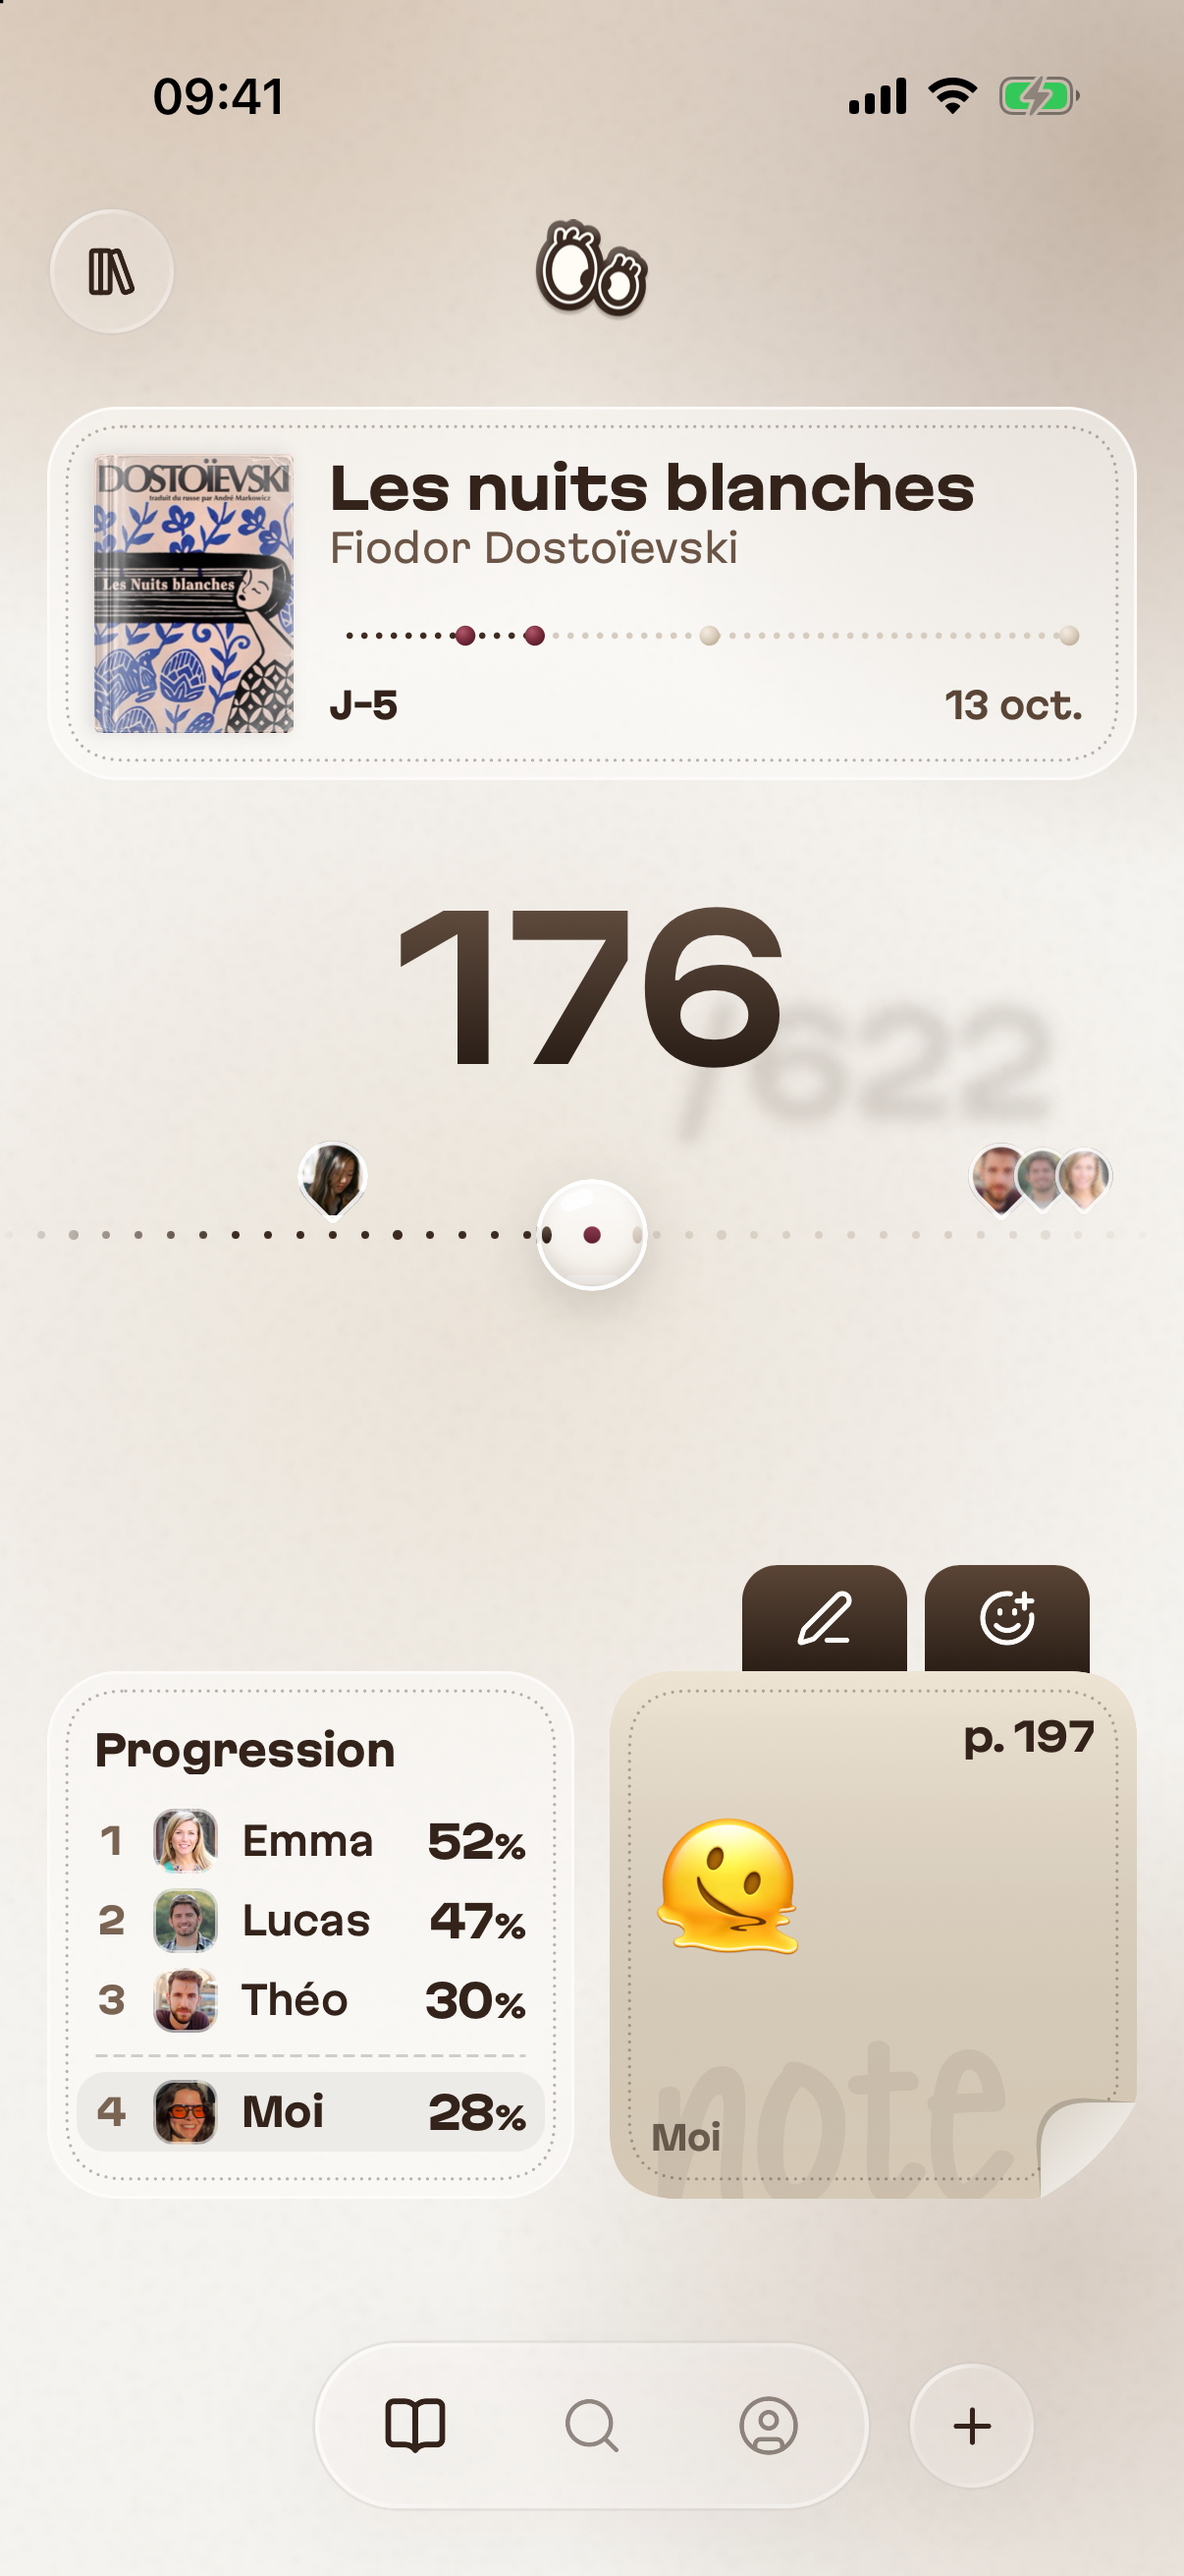
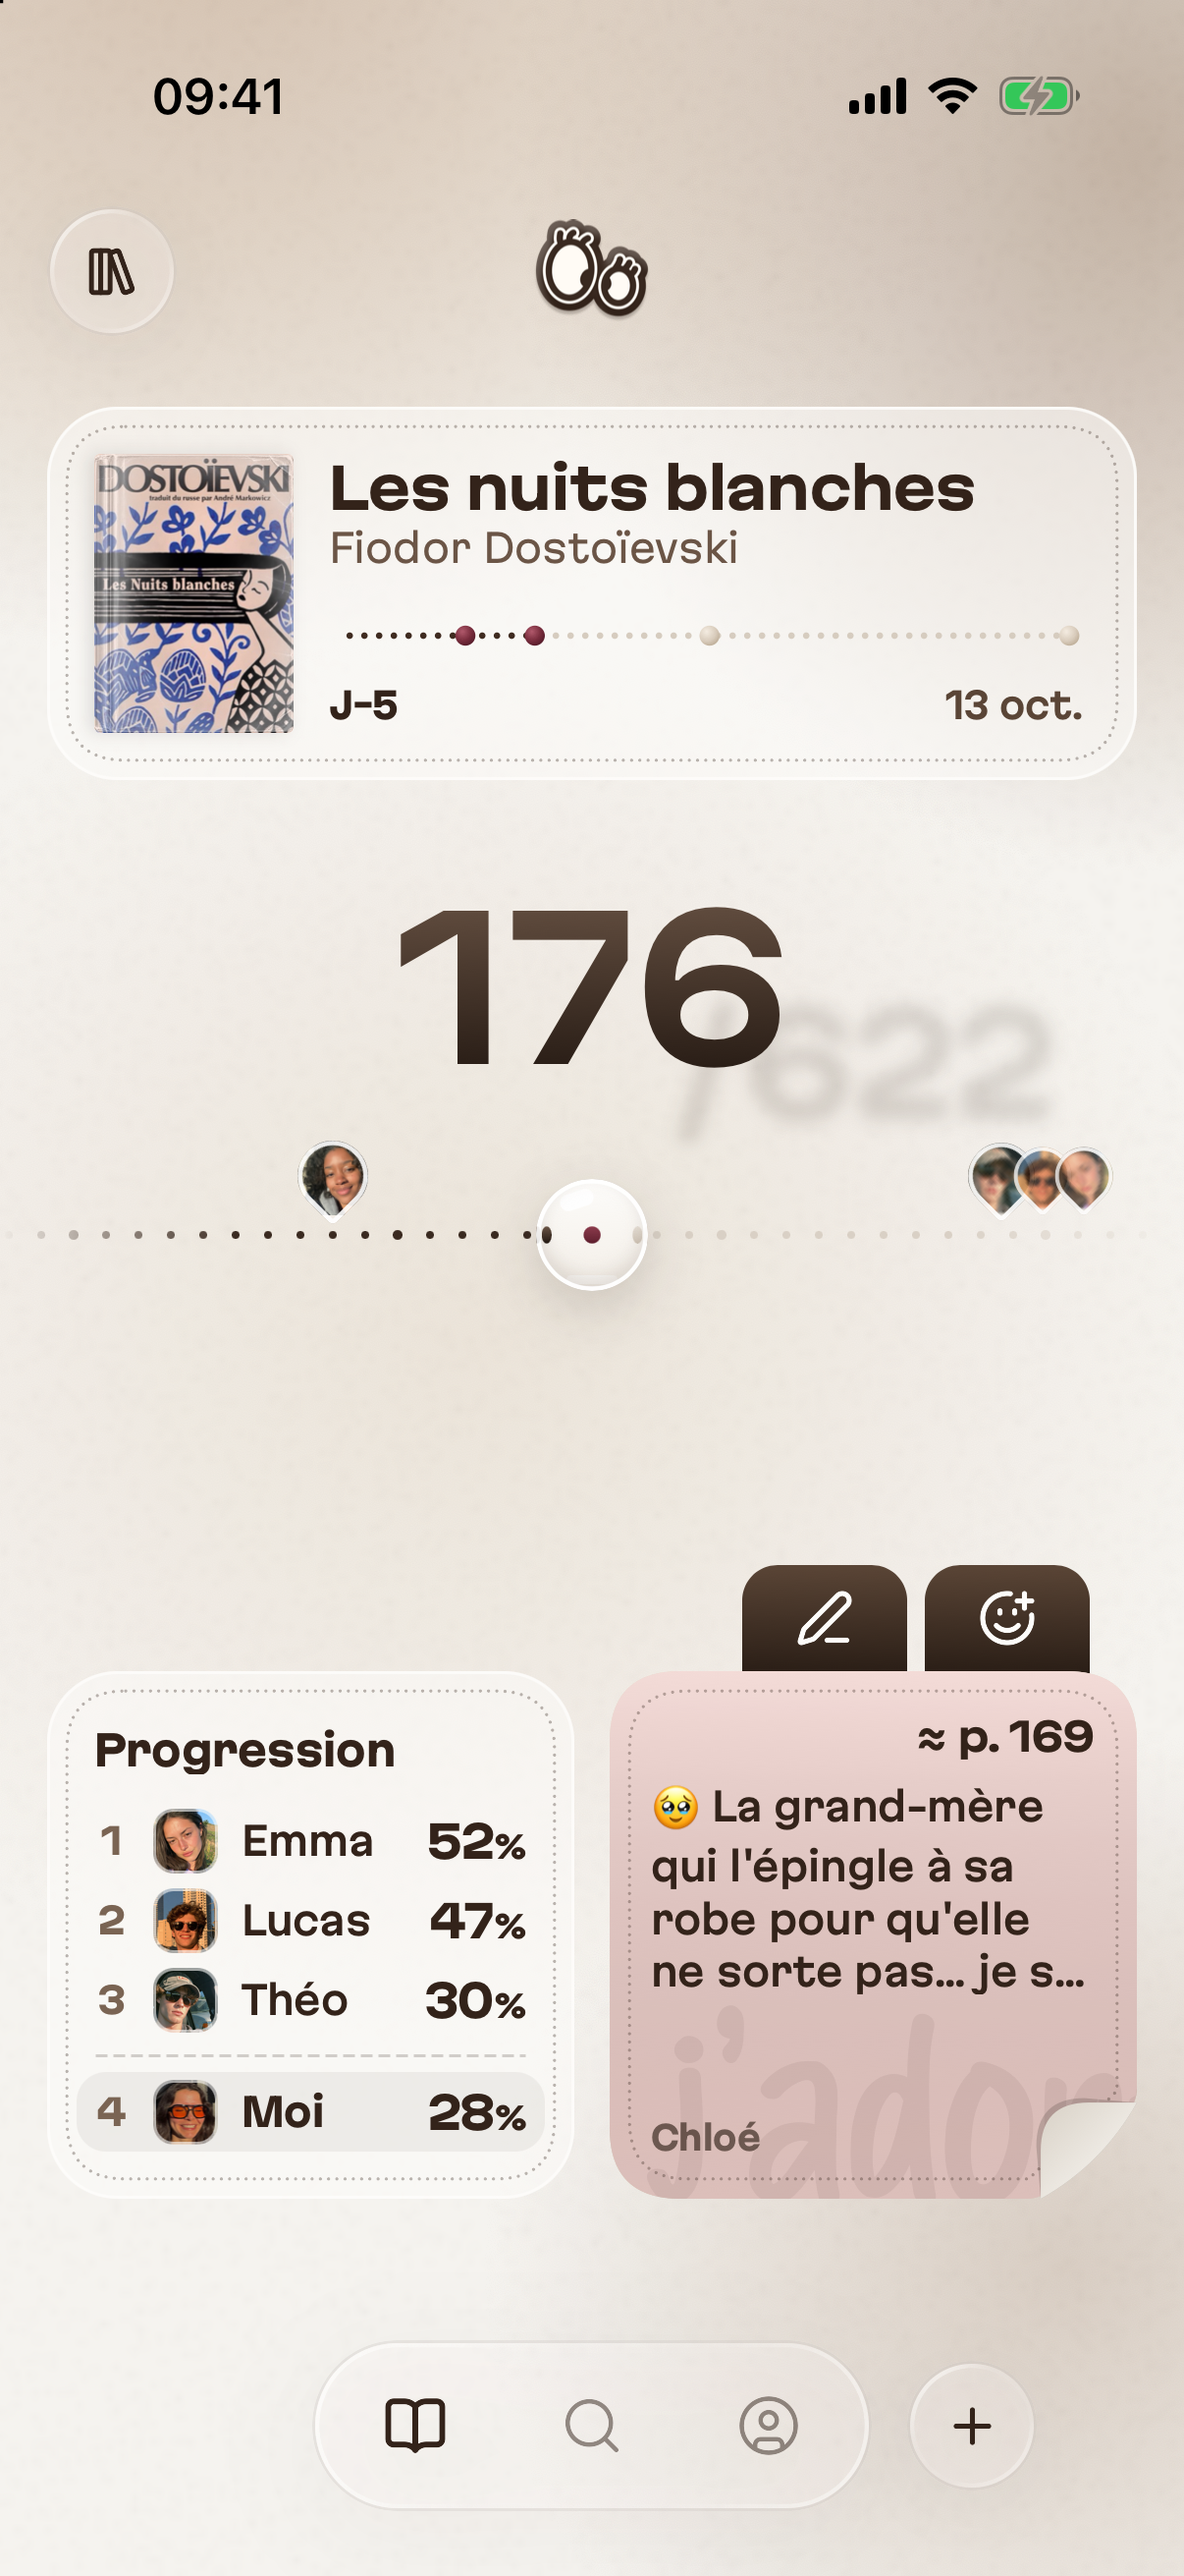
feat(store): fond rouge, fil en points, captures avec un vrai groupe
Notes de plusieurs membres, selfies naturels, deux beaux romans en
bibliothèque (video/seed/vitrine.sql).

diff --git a/video/src/StoreHeader.tsx b/video/src/StoreHeader.tsx
@@ -3,9 +3,9 @@ import {useLoop} from './loop';
 import {
   ACCENT_FONT,
   BEIGE,
-  CHOCO,
-  CHOCO_FORM_BOTTOM,
-  CHOCO_FORM_TOP,
+  RED,
+  RED_FORM_BOTTOM,
+  RED_FORM_TOP,
 } from './theme';
 
 
@@ -54,9 +54,9 @@ const Phone = ({src, cx, cy, scale, tilt, phase, sweepAt}: PhoneProps) => {
         borderRadius: 112,
         padding: BEZEL,
         boxSizing: 'border-box',
-        background: 'linear-gradient(180deg, #4a3428 0%, #1e140e 100%)',
+        background: 'linear-gradient(180deg, #3d1a1c 0%, #16080a 100%)',
         boxShadow:
-          '0 60px 120px rgba(25, 10, 4, 0.55), 0 12px 30px rgba(25, 10, 4, 0.35), inset 0 2px 0 rgba(255, 236, 220, 0.18)',
+          '0 60px 120px rgba(40, 6, 8, 0.55), 0 12px 30px rgba(40, 6, 8, 0.35), inset 0 2px 0 rgba(255, 236, 220, 0.18)',
       }}
     >
       <div
@@ -85,7 +85,7 @@ const Phone = ({src, cx, cy, scale, tilt, phase, sweepAt}: PhoneProps) => {
   );
 };
 
-// Fond chocolat : dégradé (jamais d'aplat), lavis d'aquarelle qui respirent, grain de papier.
+// Fond rouge : dégradé (jamais d'aplat), lavis d'aquarelle qui respirent, grain de papier.
 const Backdrop = () => {
   const {turn} = useLoop();
   const blooms = [
@@ -95,7 +95,7 @@ const Backdrop = () => {
   ];
   return (
     <AbsoluteFill
-      style={{background: `linear-gradient(180deg, #7b3f22 0%, ${CHOCO} 45%, #552a17 100%)`}}
+      style={{background: `linear-gradient(180deg, #ad2a33 0%, ${RED} 45%, #82171e 100%)`}}
     >
       {blooms.map((b, i) => {
         const x = b.x * W + Math.cos(turn + b.p) * 60;
@@ -112,8 +112,8 @@ const Backdrop = () => {
               borderRadius: '50%',
               background:
                 i === 0
-                  ? 'radial-gradient(circle, rgba(150, 86, 52, 0.55) 0%, rgba(150, 86, 52, 0) 65%)'
-                  : `radial-gradient(circle, rgba(63, 31, 18, ${b.a}) 0%, rgba(63, 31, 18, 0) 70%)`,
+                  ? 'radial-gradient(circle, rgba(196, 64, 70, 0.5) 0%, rgba(196, 64, 70, 0) 65%)'
+                  : `radial-gradient(circle, rgba(86, 17, 21, ${b.a}) 0%, rgba(86, 17, 21, 0) 70%)`,
             }}
           />
         );
@@ -129,21 +129,21 @@ const Backdrop = () => {
   );
 };
 
-// Le fil cousu qui relie les téléphones en passant sous le nom.
+// Le fil cousu en points qui relie les téléphones en passant sous le nom.
 const Thread = () => {
   const {frame, durationInFrames} = useLoop();
-  const period = 54;
-  const offset = -(frame / durationInFrames) * period * 4;
+  const period = 30;
+  const offset = -(frame / durationInFrames) * period * 10;
   const d = `M -100 1290 C 700 1420, 1200 1150, 1920 1180 S 3200 1420, 3940 1250`;
   return (
     <svg width={W} height={H} style={{position: 'absolute', inset: 0}}>
-      <path d={d} fill="none" stroke="rgba(30, 12, 5, 0.35)" strokeWidth={9} strokeDasharray="32 22" strokeDashoffset={offset} strokeLinecap="round" transform="translate(0 5)" />
-      <path d={d} fill="none" stroke={BEIGE} strokeWidth={8} strokeDasharray="32 22" strokeDashoffset={offset} strokeLinecap="round" />
+      <path d={d} fill="none" stroke="rgba(60, 8, 12, 0.4)" strokeWidth={13} strokeDasharray={`0 ${period}`} strokeDashoffset={offset} strokeLinecap="round" transform="translate(0 5)" />
+      <path d={d} fill="none" stroke={BEIGE} strokeWidth={13} strokeDasharray={`0 ${period}`} strokeDashoffset={offset} strokeLinecap="round" />
     </svg>
   );
 };
 
-// « Lowki » ton sur ton : forme chocolat plus profonde, liseré clair dessous (gravé).
+// « Lowki » ton sur ton : forme rouge plus profonde, liseré clair dessous (gravé).
 const Wordmark = () => {
   const {turn} = useLoop();
   const lift = Math.sin(turn) * 6;
@@ -158,11 +158,11 @@ const Wordmark = () => {
   };
   return (
     <div style={{position: 'absolute', left: 0, right: 0, top: 420 + lift, height: 700}}>
-      <div style={{...base, color: 'rgba(255, 226, 200, 0.22)', transform: 'translateY(6px)'}}>{text}</div>
+      <div style={{...base, color: 'rgba(255, 214, 210, 0.2)', transform: 'translateY(6px)'}}>{text}</div>
       <div
         style={{
           ...base,
-          backgroundImage: `linear-gradient(180deg, ${CHOCO_FORM_TOP} 20%, ${CHOCO_FORM_BOTTOM} 80%)`,
+          backgroundImage: `linear-gradient(180deg, ${RED_FORM_TOP} 20%, ${RED_FORM_BOTTOM} 80%)`,
           WebkitBackgroundClip: 'text',
           backgroundClip: 'text',
           color: 'transparent',

diff --git a/video/src/theme.ts b/video/src/theme.ts
@@ -1,13 +1,12 @@
 import {loadFont} from '@remotion/fonts';
 import {staticFile} from 'remotion';
 
-// Palette officielle Lowki, ton sur ton (chocolat).
-export const CHOCO = '#6b351d';
-export const CHOCO_FORM_TOP = '#4b2514';
-export const CHOCO_FORM_BOTTOM = '#3f1f12';
+// Palette officielle Lowki, ton sur ton (rouge).
+export const RED = '#9c1f27';
+export const RED_FORM_TOP = '#6c1419';
+export const RED_FORM_BOTTOM = '#561115';
 export const BEIGE = '#c0a283';
 
 export const ACCENT_FONT = 'Welcome Valentines';
-
 
 loadFont({family: ACCENT_FONT, url: staticFile('fonts/WelcomeValentines.ttf')});
